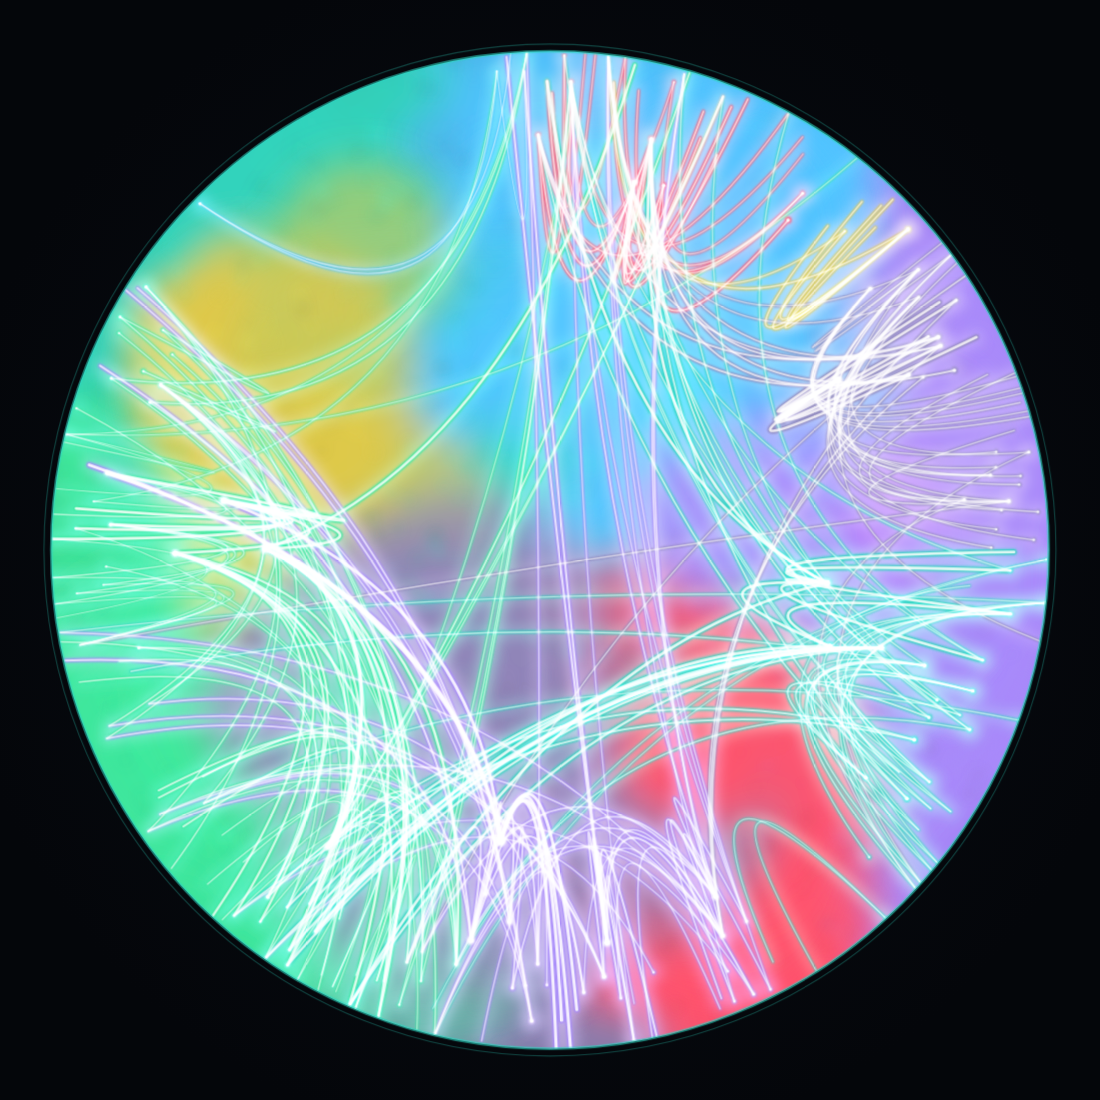
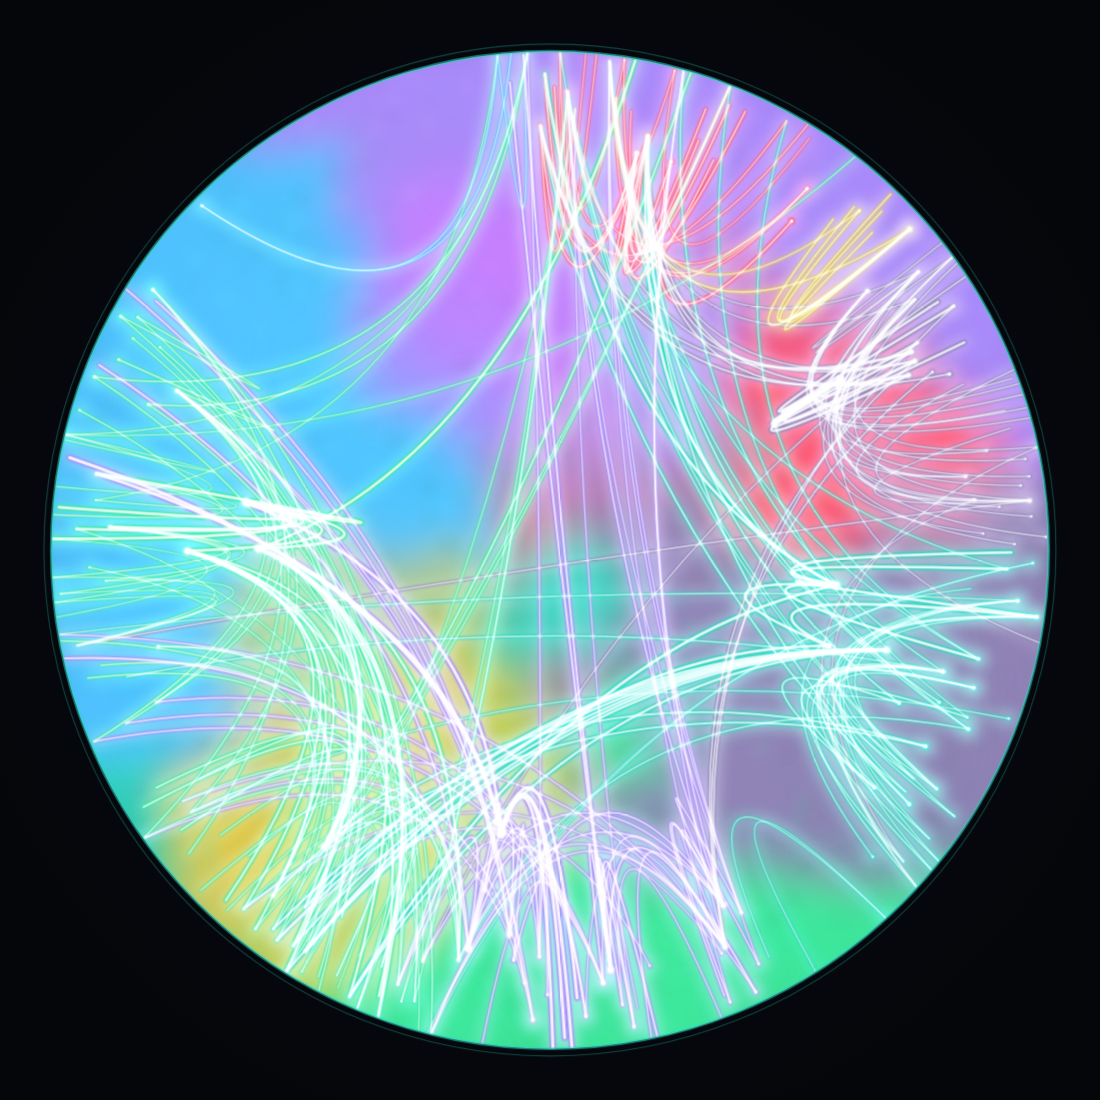
fingerprint: harden the generator (15 fixes from /code-review max)
Correctness/robustness:
- iterative Tarjan SCC (was recursive -> stack overflow on deep graphs, silently
  swallowed into cycleRatio=0, falsely flattering big tangled codebases)
- degenerate input (no effectful fns / empty graph) -> structure null / grade n/a,
  not a flattering 100/A
- an effect not in the palette (future/spec-added) folds into Unknown, not dropped
- reject non-array `inferred` (was char-iterated + later crash) via Array.isArray
- deterministic across engines: sort node ids + tie-break filaments on edge identity,
  so the same logical graph yields byte-identical SVG regardless of key/adjacency
  emission order (verified across reversed order)
- guarded JSON.parse (clean error; malformed callgraph sidecar warns + falls back)
- guarded all callgraph value iteration (cgVal) and all file writes (clean errors)
- HTML-escape the report name in the HTML wrapper

CLI/UX:
- merge multiple report prefixes; auto-discover+merge a Rust workspace's per-crate
  <prefix>.<crate>.scan.json siblings (no manual merge)
- argv bounds + `--flag=value` form; --size validates/NaN-guards
- PNG export: unlink-before + non-empty + r.error checks (no stale-png false success),
  Chrome --force-device-scale-factor=1, resvg -h, 60s timeout
- unify the Unknown show-threshold (0.01 vs 0.02); fix leading-comma legend on
  Unknown-only; meta.effects keeps precision; LCG via Math.imul; DNA delimited

candor-java (the crash fix + record fuzzer form) reviewed clean/sound; the density
[…]

diff --git a/fingerprint/README.md b/fingerprint/README.md
@@ -10,7 +10,7 @@ it is* (order vs. chaos).
 ## Usage
 
 ```sh
-node candor-fingerprint.mjs <report-prefix> [options]
+node candor-fingerprint.mjs <report-prefix>... [options]
 ```
 
 `<report-prefix>` points at a report; the tool reads `<prefix>.json` (the report) and, if present,
@@ -23,6 +23,11 @@ accepted directly. Produce a report with any engine:
 | java | `candor <classes-or-jar> --json <prefix>.json` | `<prefix>.json` (+ `.callgraph.json`) |
 | ts | `candor-ts <dir> --json <prefix>.json` | `<prefix>.json` (+ `.callgraph.json`) |
 
+**Workspaces / multiple reports.** A Rust workspace emits one report per crate
+(`<prefix>.<crate>.scan.json`). Pass the bare `<prefix>` and the tool auto-discovers and **merges**
+those siblings into one fingerprint — no manual merge step. You can also pass several prefixes
+explicitly; they're merged into a single mark for the whole set.
+
 ### Options
 
 | flag | effect |
@@ -33,6 +38,9 @@ accepted directly. Produce a report with any engine:
 | `--size <px>` | output pixel size (the viewBox is always 600; default 1100) |
 | `--json` | print the fingerprint **metadata** (effect mix + structure/health score) to stdout |
 | `--no-svg` | skip the SVG file (e.g. when you only want `--png` or `--json`) |
+
+Flags also accept the `--flag=value` form. A degenerate input (no effectful functions / empty graph)
+reports `structure: null` / grade `n/a` rather than a flattering perfect score.
 
 ### Examples
 
@@ -85,8 +93,11 @@ lower without being "bad".
 
 ## Determinism & offline
 
-SVG generation is pure, offline and deterministic — the same report always yields byte-identical SVG
-(the seed is an FNV hash of the rounded effect DNA). **PNG export is the only step that shells out**, to
-a rasterizer, and is never part of the deterministic artifact. The tool auto-detects, in order:
+SVG generation is pure, offline and deterministic, and **engine-independent**: node ids are sorted and
+filament ordering is tie-broken on edge identity before layout, so the *same logical graph* yields
+byte-identical SVG regardless of the order an engine happens to emit callgraph keys or adjacency lists
+(verified across reversed key+adjacency order). The seed is an FNV hash of the rounded effect DNA.
+**PNG export is the only step that shells out**, to a rasterizer, and is never part of the deterministic
+artifact. The tool auto-detects, in order:
 `rsvg-convert`, `resvg`, then a headless Chrome/Chromium (set `CANDOR_CHROME` to point at a binary). If
 none is found, the SVG is still written and the PNG is skipped with a note.
